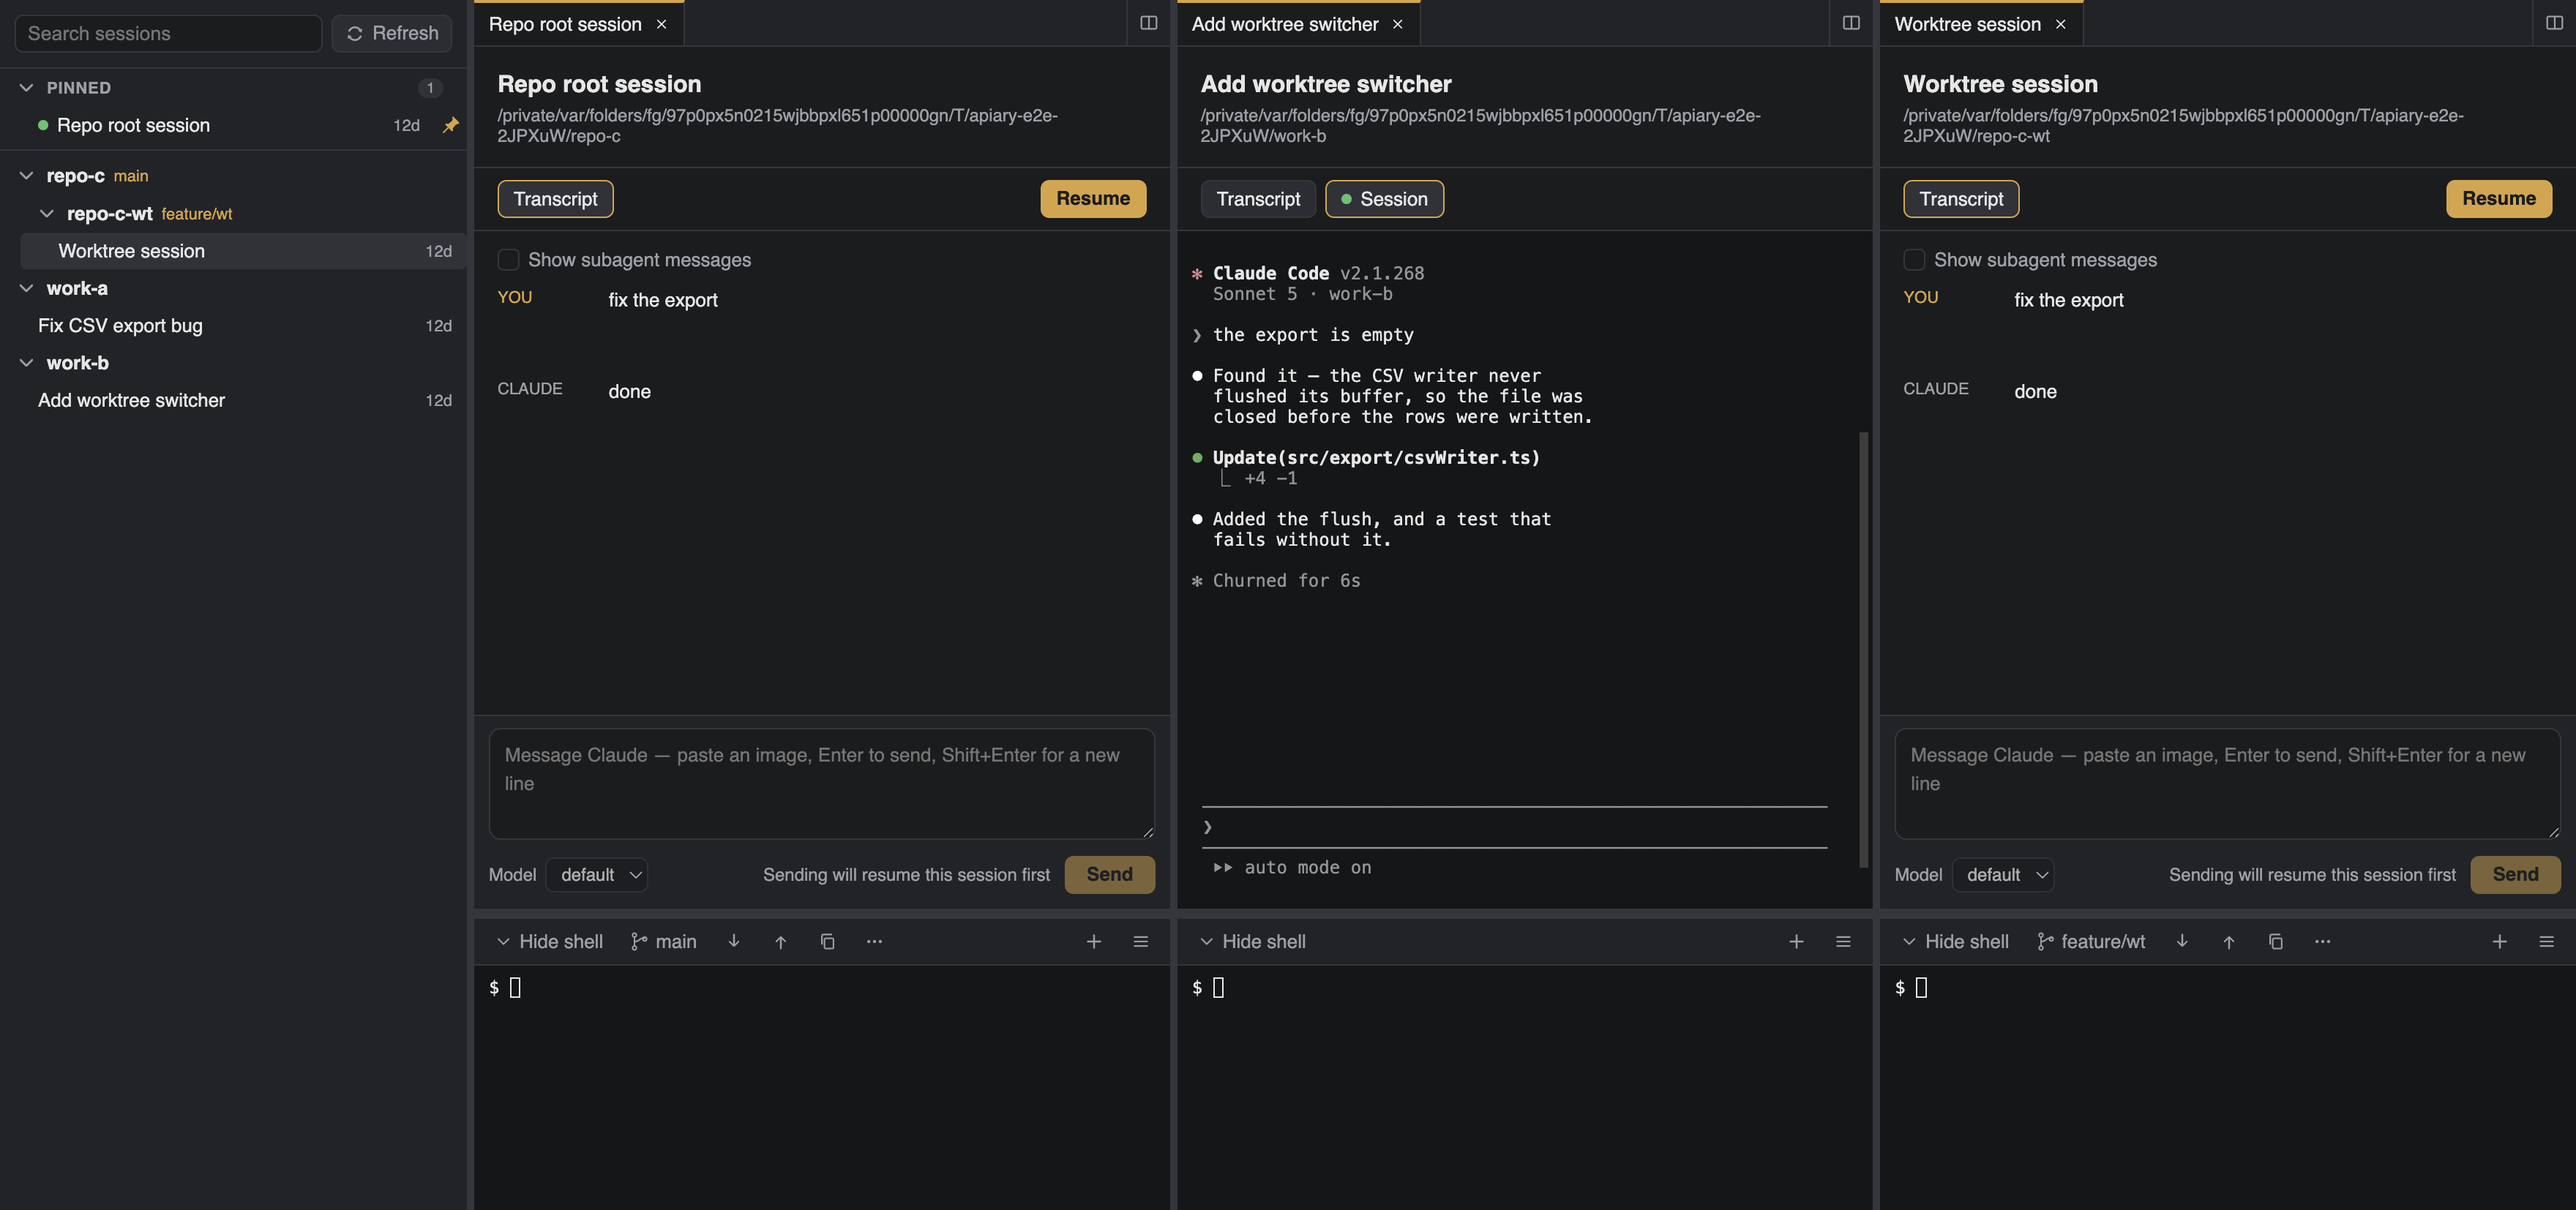
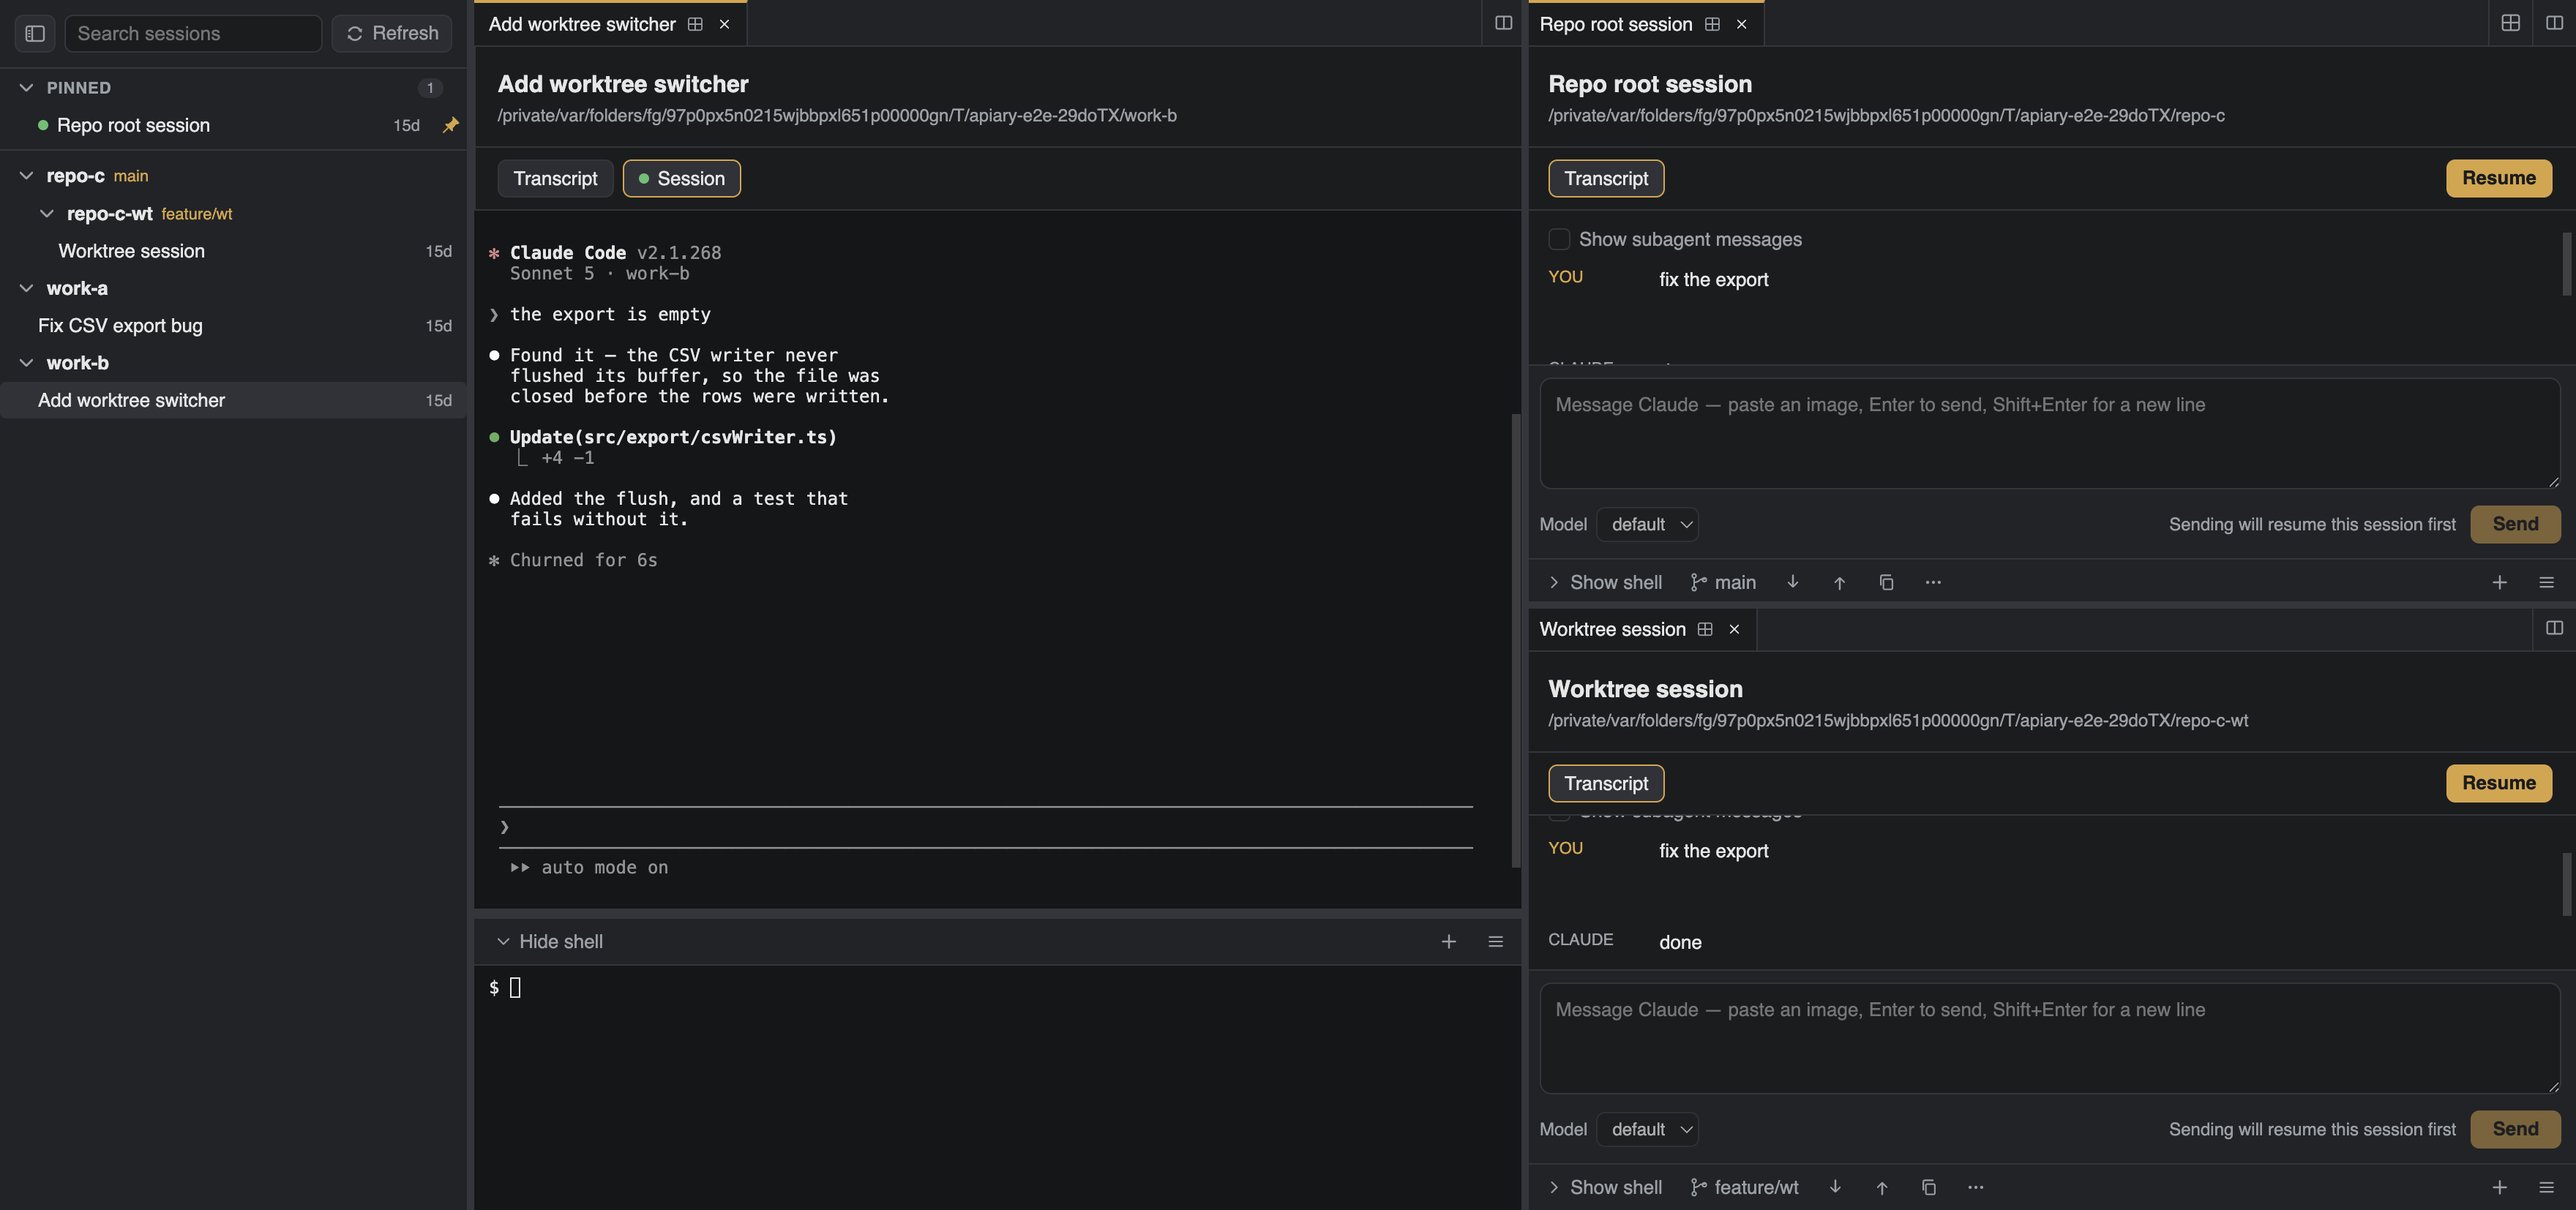
docs: README screenshot and feature list show pane layouts (1.17.0)

diff --git a/scripts/screenshot.spec.ts b/scripts/screenshot.spec.ts
@@ -28,8 +28,8 @@ test('capture the README screenshot', async () => {
   await importAll(h.page)
   await h.page.getByTestId('sidebar-refresh').click()
 
-  // A roomy, evenly-proportioned window — big enough for three columns side by side without
-  // either the sidebar or a column looking cramped.
+  // A roomy window — big enough for a large pane and two stacked ones, each with a shell, without
+  // either the sidebar or a pane looking cramped.
   await h.app.evaluate(({ BrowserWindow }) => {
     BrowserWindow.getAllWindows()[0].setSize(1760, 1050)
   })
@@ -51,30 +51,43 @@ test('capture the README screenshot', async () => {
   await h.page.getByTestId('settings-save').click()
   await h.page.getByTestId('settings-dialog').waitFor({ state: 'detached' })
 
-  // Three sessions, three columns — search on the left, several conversations open side by side,
-  // each with its own shell running underneath it.
+  // Three sessions in a layout — search on the left, several conversations open at once, the large
+  // one with its shell running underneath it. Three splits give "main and two on the right".
   await sidebarSession(h.page, 'Repo root session').click()
   for (const title of ['Add worktree switcher', 'Worktree session']) {
     const target = h.page.locator('.session-row-wrap').filter({ hasText: title })
     await clickRowAction(target, 'split-session-button')
   }
+  await expect(h.page.getByTestId('content')).toHaveAttribute('data-preset', 'main-right2')
+
+  // The session about to be resumed goes into the large pane, through the layout picker on its own
+  // tab — the feature the picture is showing off. Not the fixture's "already running elsewhere"
+  // session, because resuming that one deliberately asks before doing anything.
+  const tab = h.page.getByTestId('session-tab').filter({ hasText: 'Add worktree switcher' })
+  await expect(async () => {
+    await tab.hover({ timeout: 2000 })
+    await tab.getByTestId('session-tab-layout').hover({ timeout: 2000 })
+    await expect(h.page.getByTestId('layout-picker')).toBeVisible({ timeout: 2000 })
+  }).toPass({ timeout: 20000 })
+  await h.page.getByTestId('layout-zone-main-right2-1').click()
+  await expect(h.page.getByTestId('layout-picker')).toHaveCount(0)
 
   const columns = h.page.getByTestId('session-column')
-  const columnCount = await columns.count()
 
-  // Resume the middle session, so the picture shows what the app is actually for: a live Claude
-  // Code session running inside it. The others stay on their transcripts, which is the other half
-  // of what it does — reading history and working in it, side by side. The middle one rather than
-  // the first because the first is the fixture's "already running elsewhere" session, and
-  // resuming that one deliberately asks before doing anything.
-  const live = columns.nth(1)
+  // Resume it, so the picture shows what the app is actually for: a live Claude Code session
+  // running inside it. The others stay on their transcripts, which is the other half of what it
+  // does — reading history and working in it, side by side.
+  const live = columns.first()
   await live.getByTestId('resume-button').click()
   await expect(live.getByTestId('terminal-session')).toContainText('Claude Code', { timeout: 20000 })
 
-  for (let i = 0; i < columnCount; i++) {
+  // A shell under the large pane only: the two stacked panes are half height, and a shell in each
+  // leaves their transcripts no room to be read — which is the half of the picture they are for.
+  const shellPanes = 1
+  for (let i = 0; i < shellPanes; i++) {
     await columns.nth(i).getByTestId('shell-toggle').click()
   }
-  for (let i = 0; i < columnCount; i++) {
+  for (let i = 0; i < shellPanes; i++) {
     const shell = columns.nth(i).getByTestId('terminal-shell')
     await shell.click()
     // This is a real, live shell in whatever directory the session ran in — genuinely running,
@@ -83,7 +96,9 @@ test('capture the README screenshot', async () => {
     // one instead of publishing whoever happened to run this script's login name.
     await h.page.keyboard.type('export PS1="$ "; clear\n')
   }
-  // Give each shell a moment to apply the new prompt and settle.
+  // Give each shell a moment to apply the new prompt and settle, and move the pointer off the
+  // panes so no hover card or picker is caught in the picture.
+  await h.page.mouse.move(2, 2)
   await h.page.waitForTimeout(1000)
 
   // The Refresh above reports what it found, which is useful in the app and noise in a README

diff --git a/README.md b/README.md
@@ -7,7 +7,7 @@ Apiary reads the session files Claude Code already writes to `~/.claude/projects
 worktrees under their parent repository, and lets you read any conversation or
 resume it in an embedded terminal in the correct working directory.
 
-![Apiary: a searchable sidebar with pinned and grouped sessions on the left, three sessions open side by side — the middle one a live Claude Code session, the others showing their transcripts — each with its own shell running underneath it](docs/screenshot.png)
+![Apiary: a searchable sidebar with pinned and grouped sessions on the left, three sessions arranged in a layout — a live Claude Code session in the large pane, two transcripts stacked beside it, and a shell running under the live one](docs/screenshot.png)
 
 ## Features
 
@@ -20,9 +20,15 @@ resume it in an embedded terminal in the correct working directory.
 - **Read any transcript** — full conversation history, rendered as markdown
   (headings, code blocks, lists), with tool calls/results collapsed into
   expandable blocks and subagent (sidechain) messages hidden by default.
-- **Work on several sessions at once** — sessions open as tabs, and any session can
-  be split into a column of its own beside the current one (as many columns as you
-  like), so two or three conversations can be watched side by side.
+- **Work on several sessions at once** — sessions open as tabs, and a window arranges up
+  to four of them in a layout: columns, rows, a main pane with two beside it, or a 2×2 grid.
+  Rest the pointer on a session's split button or a tab's layout icon (or choose *Arrange…*
+  from its right-click menu), click the spot you want it in, and the rest arrange around it.
+  Empty panes offer your open tabs and recent sessions, and the dividers drag in both
+  directions.
+- **Tidy terminals and a tidy sidebar** — F2 renames the terminal you're in; hovering a folder
+  shows its full path with a copy button, and collapses every worktree under it in one click;
+  the whole sidebar folds away to a thin rail (⌘B / Ctrl+Shift+B) when you want the width.
 - **A session in a window of its own** — drag a tab out of the window, or right-click it and
   choose *Move into New Window*, and the conversation and its shell get a window with no sidebar
   in the way. Tabs can be dragged between open windows too.
@@ -120,7 +126,8 @@ as long as the build requirements below are met.
 
 `npm run screenshot` launches the real app against a representative fixture (three
 project folders, a git worktree, a few sessions with human-sounding titles), opens
-three of them side by side with a shell running under each, and resumes one so the
+three of them in a layout (placing one in the large pane through the layout picker) with
+a shell running under it, and resumes that one so the
 picture shows a live session rather than only transcripts, before overwriting
 `docs/screenshot.png` — see `scripts/screenshot.spec.ts`. The resumed session runs
 `scripts/fixtures/fake-claude.sh`, a stand-in that prints a fixed, believable Claude
